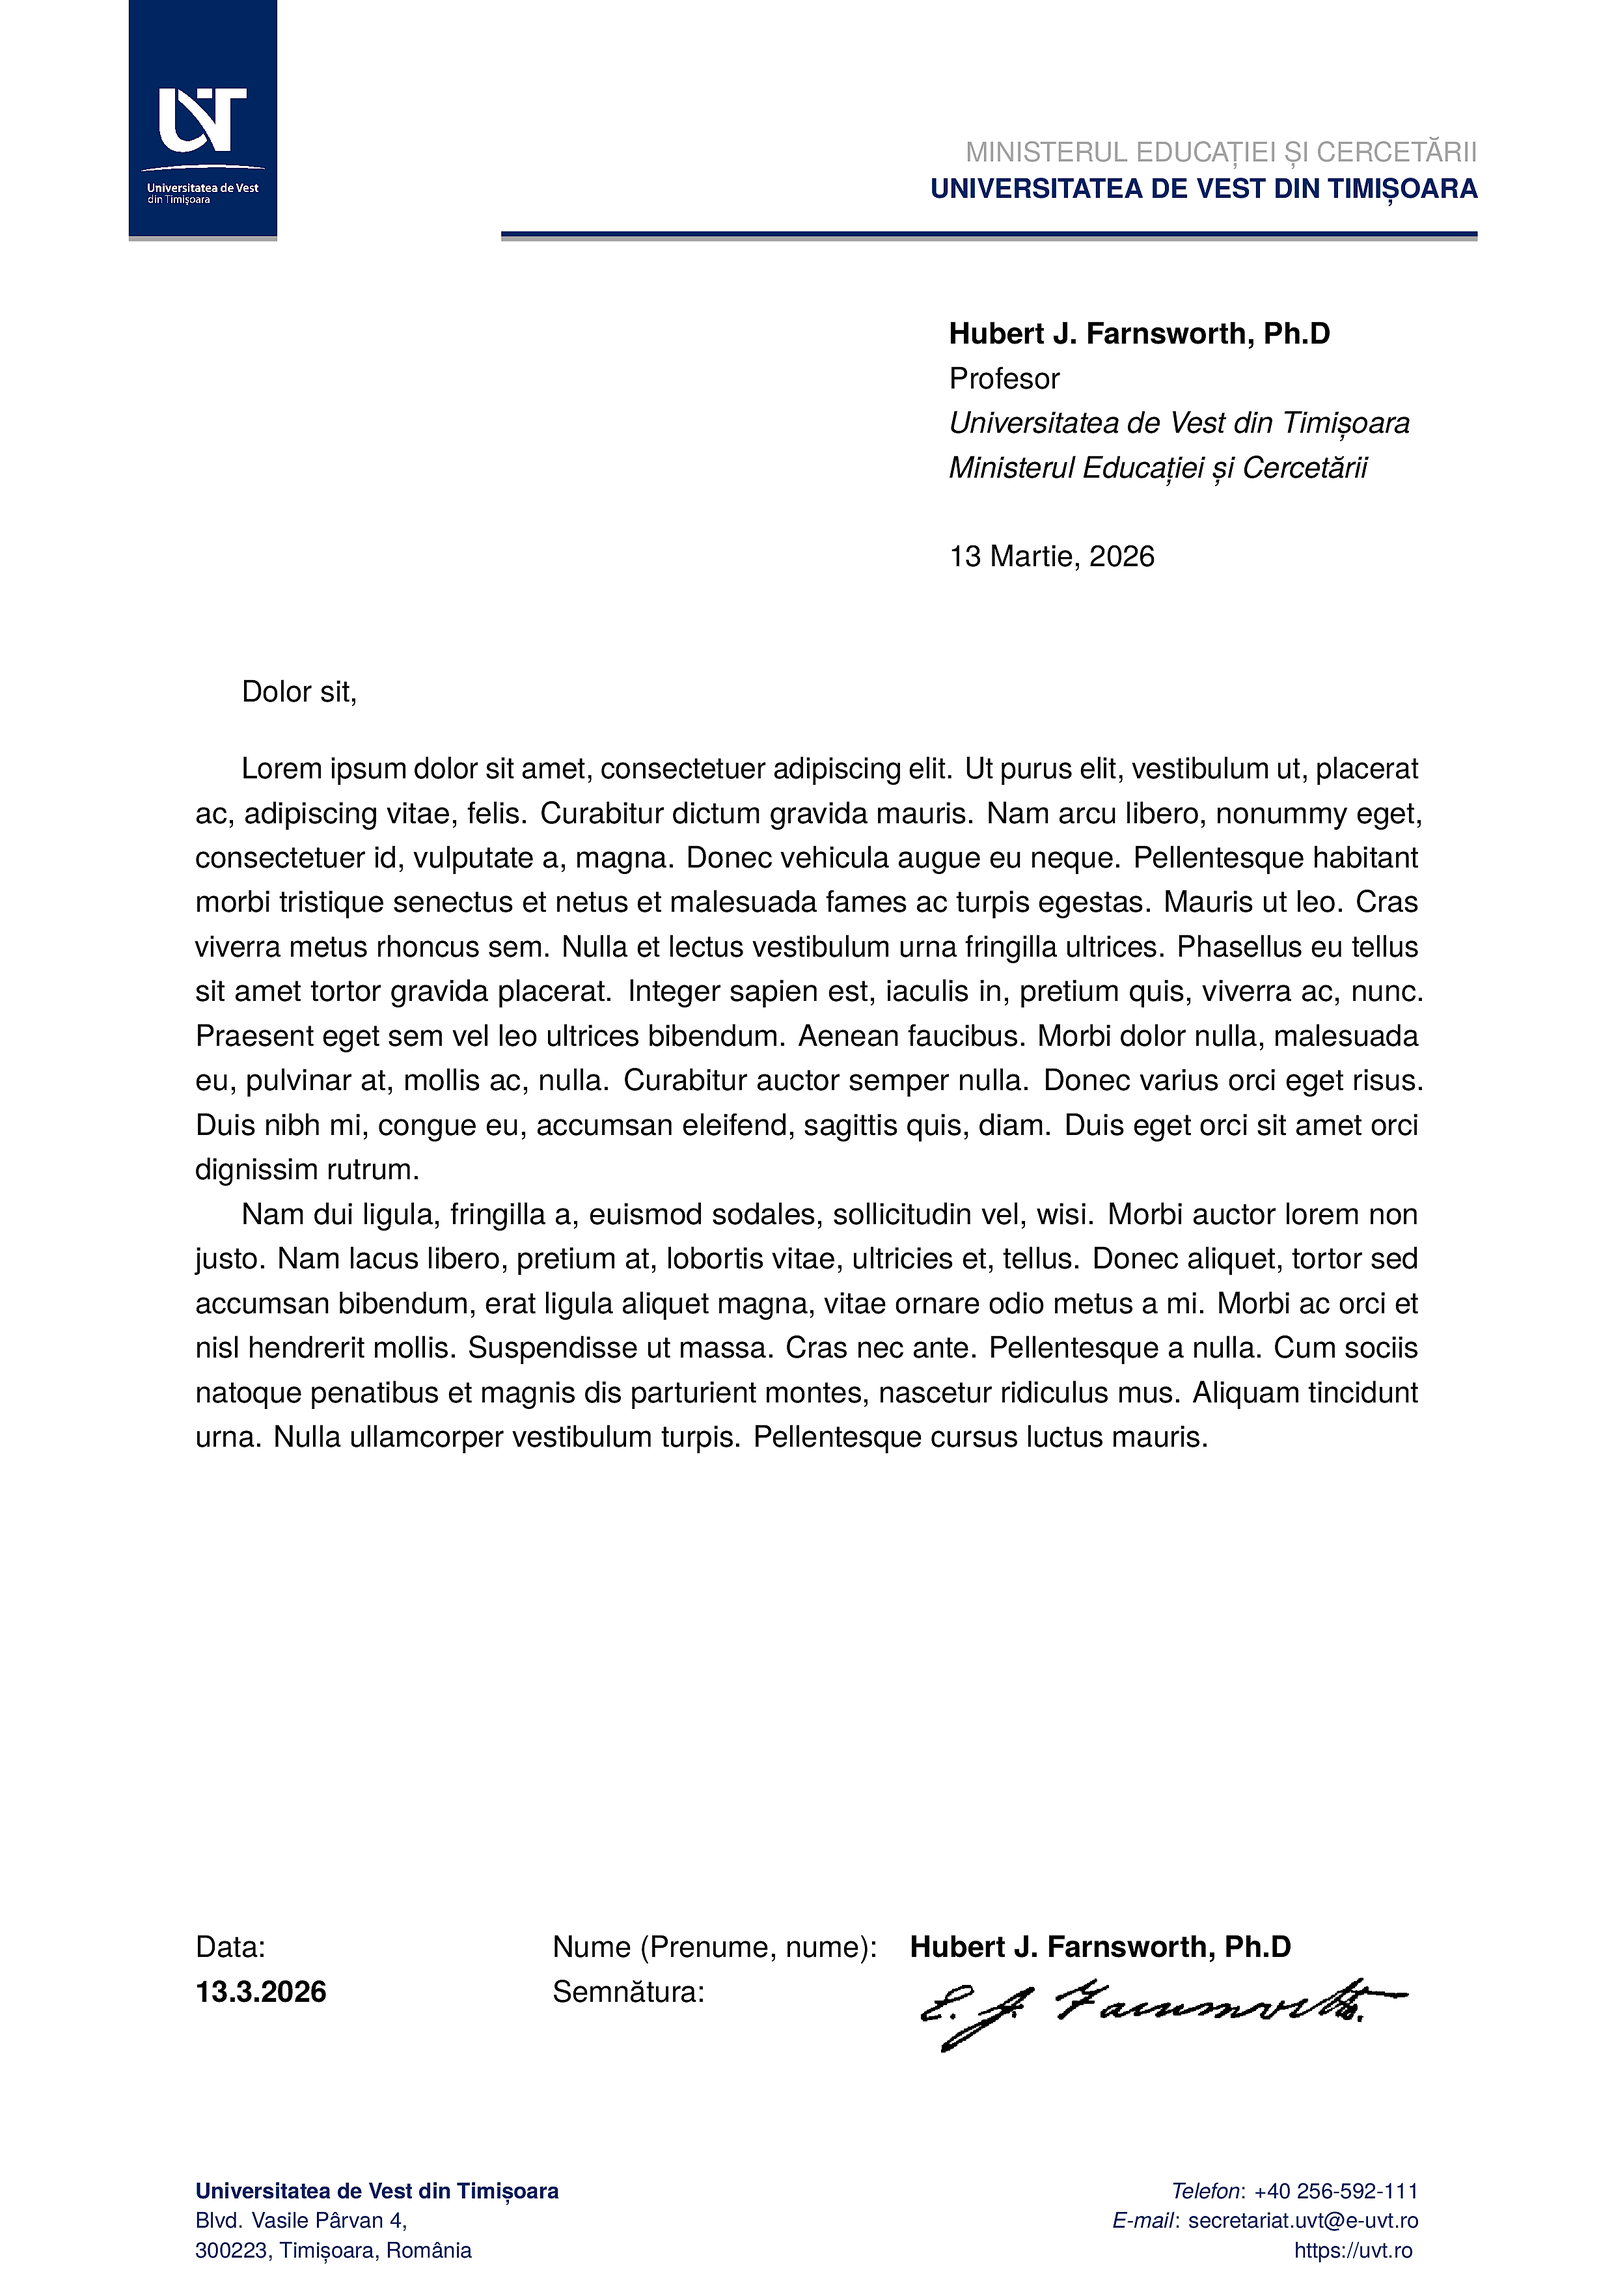
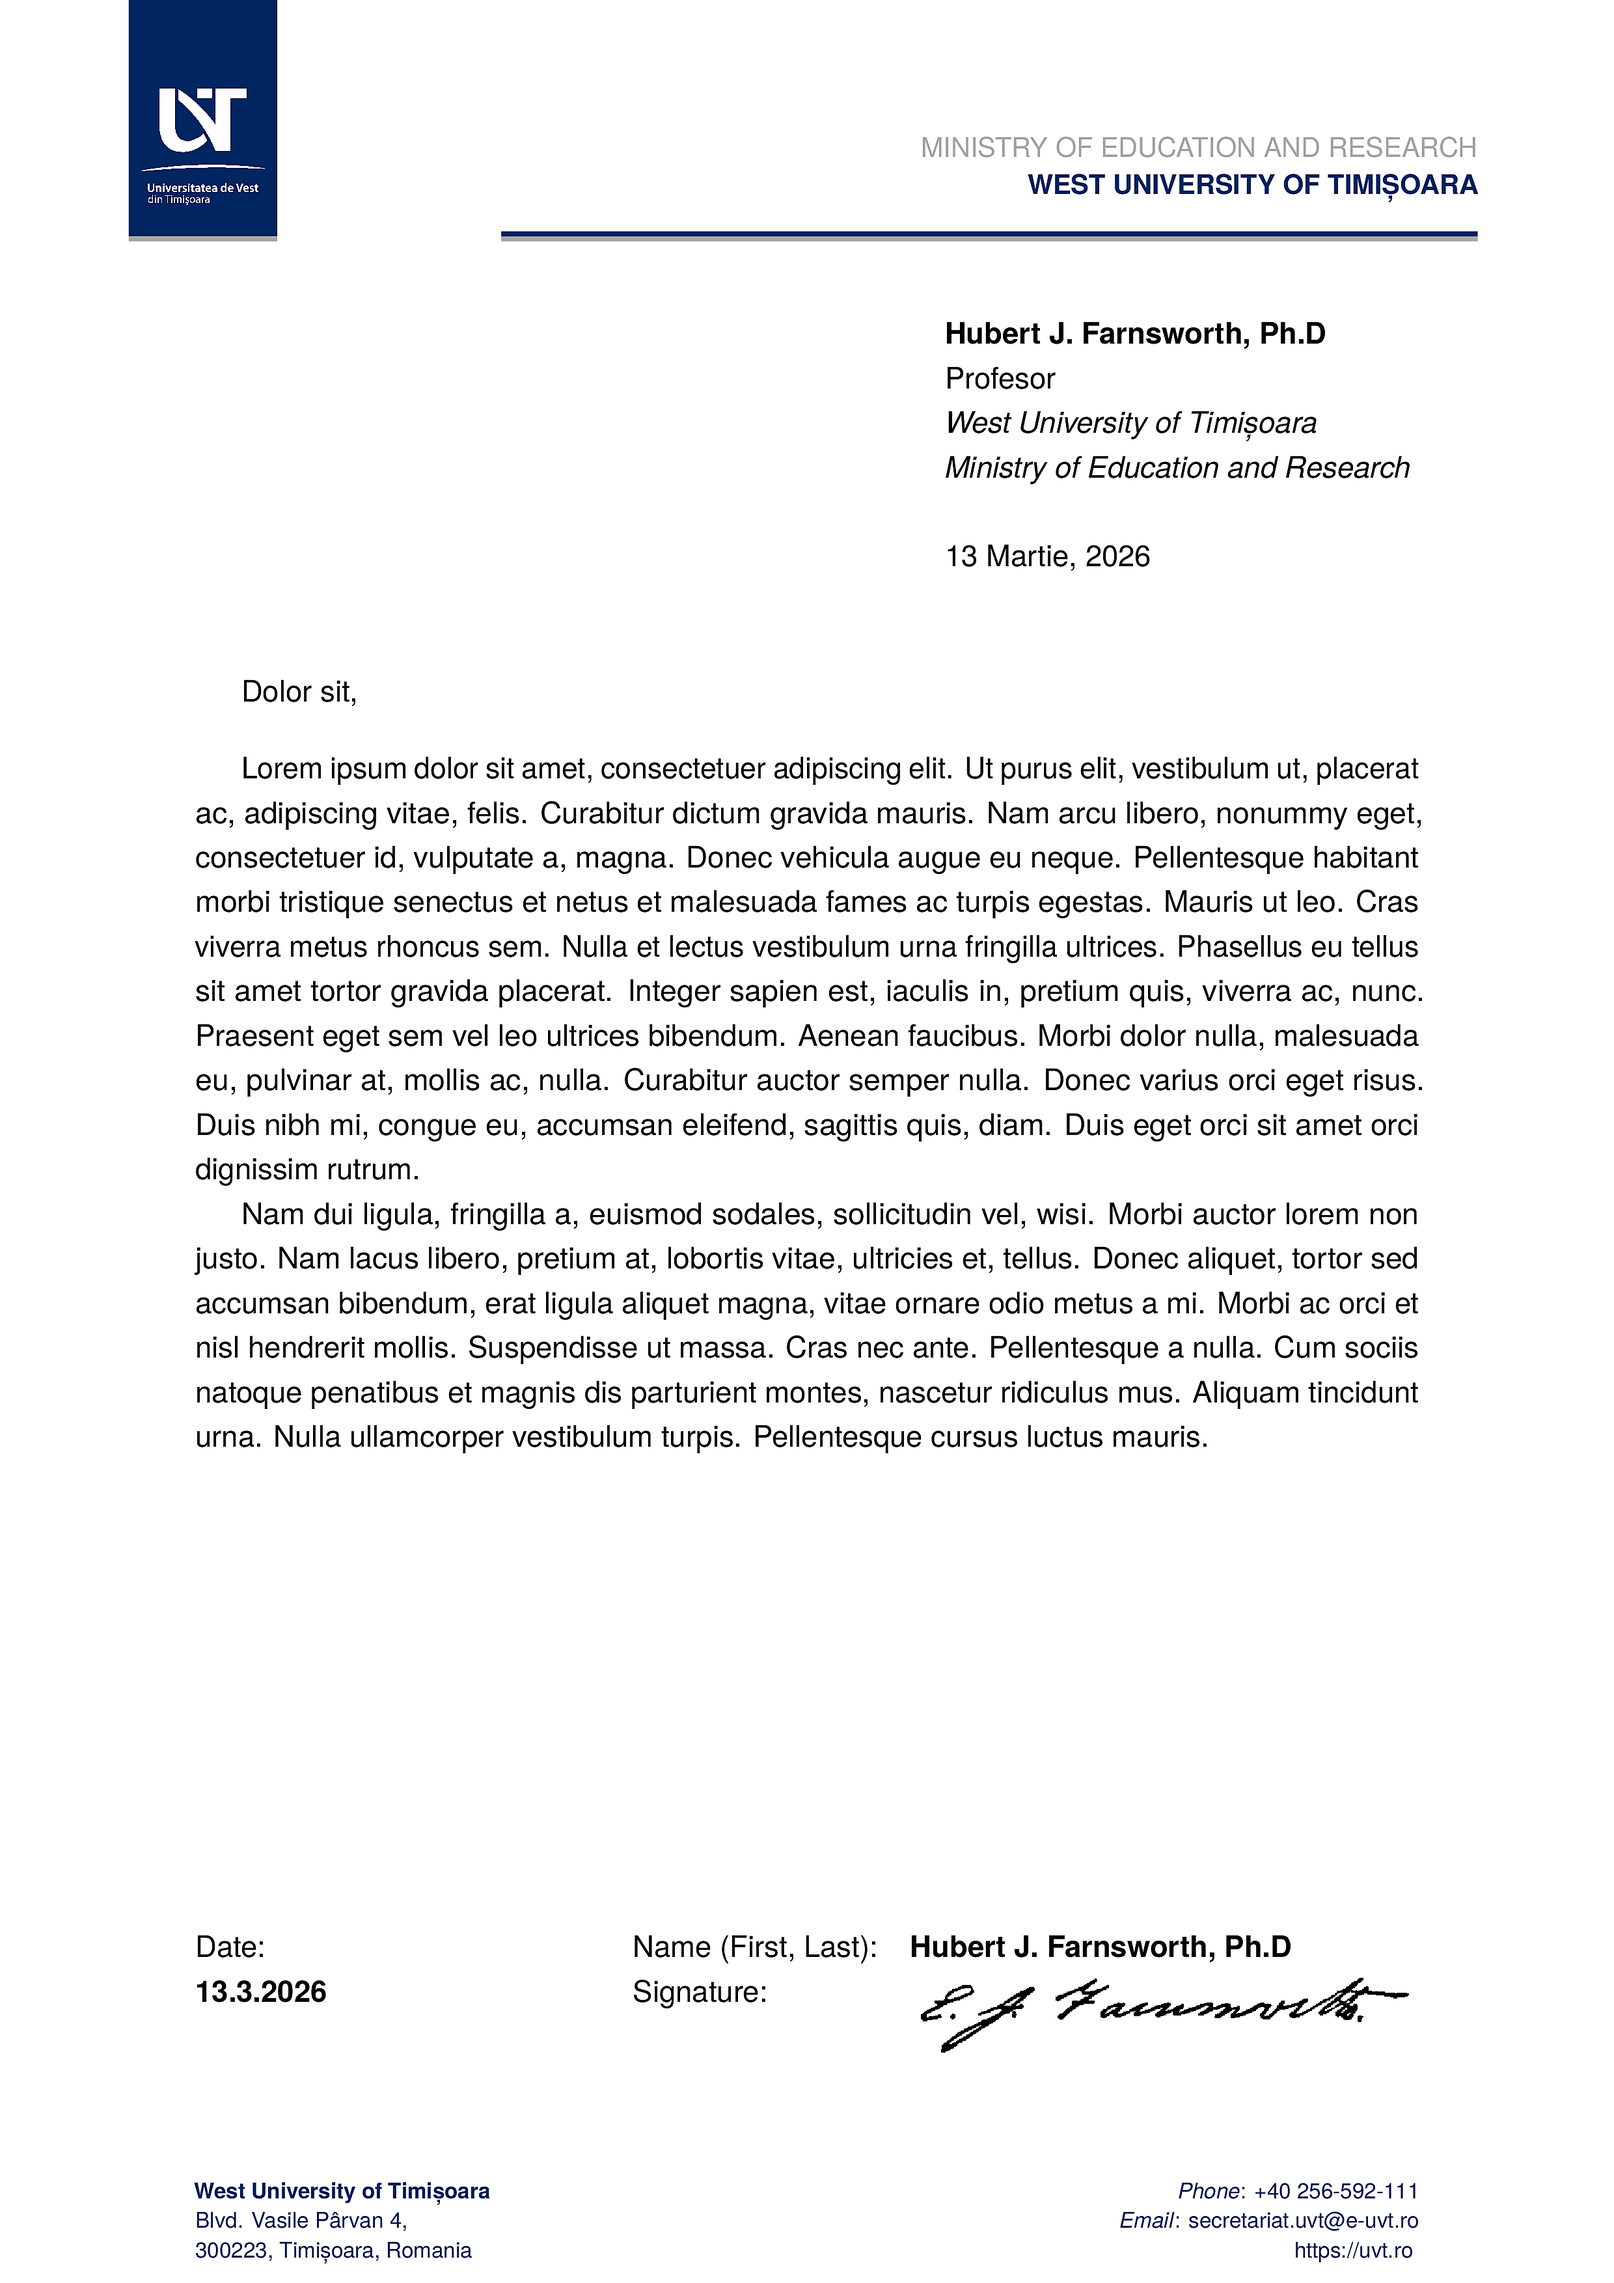
fix: use english in preview

diff --git a/template.tex b/template.tex
@@ -1,9 +1,9 @@
 \documentclass[11pt, a4paper]{article}
 % NOTE: toggle the following lines to switch to Romanian
-% \usepackage[english]{babel}
-% \selectlanguage{english}
-\usepackage[romanian]{babel}
-\selectlanguage{romanian}
+\usepackage[english]{babel}
+\selectlanguage{english}
+% \usepackage[romanian]{babel}
+% \selectlanguage{romanian}
 
 % NOTE: the package should be loaded after babel so that it can add translations
 \usepackage[department=uvt]{uvt-letterhead}
